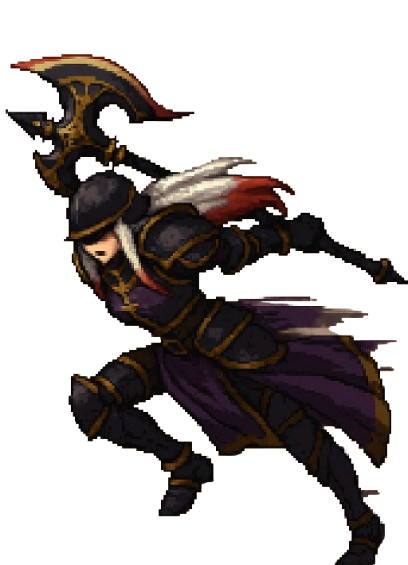
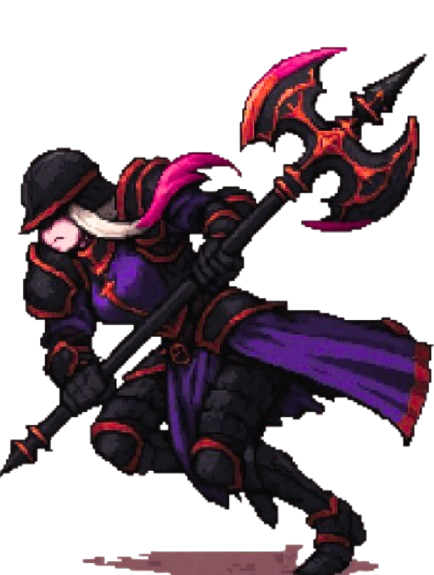
add nemora animacao
efeitos pos transformação e multiplas arts

diff --git a/js/mapaDois.js b/js/mapaDois.js
@@ -3134,6 +3134,26 @@ const normalModels = [
       zona: 5
     }
   ],
+  // [
+  //   {
+  //     name: "Nemora",
+  //     hp: 400,
+  //     maxHp: 400,
+  //     dano: 40,
+  //     behavior() {
+  //       return [
+  //         {
+  //           type: Math.random() < 0.75 ? "attack" : "attackVida",
+  //           value: this.dano
+  //         }
+  //       ];
+  //     },
+  //     img: "../img/jogo/inimigos/animado/statico/nemora1.png",
+  //     tipoDano: "(⚔❔🔱)⚜🎭💊",
+  //     tipoVida: "🧿",
+  //     zona: 1
+  //   }
+  // ]
 ];
 
 // ELITE
@@ -3697,19 +3717,19 @@ const bossModels = [
     }
   ],
   // 5555555555555555
-  [
-    {
-      name: "IA",
-      hp: 250,
-      maxHp: 250,
-      dano: 38,
-      behavior: () => [{ type: Math.random() < 0.75 ? "attack" : "attackVida", value: 38 }],
-      img: "../img/jogo/inimigos/bossIa.png",
-      tipoDano: "⚔❔🔱",
-      tipoVida: "🧿",
-      zona: 5
-    }
-  ],
+  // [
+  //   {
+  //     name: "IA",
+  //     hp: 250,
+  //     maxHp: 250,
+  //     dano: 38,
+  //     behavior: () => [{ type: Math.random() < 0.75 ? "attack" : "attackVida", value: 38 }],
+  //     img: "../img/jogo/inimigos/bossIa.png",
+  //     tipoDano: "⚔❔🔱",
+  //     tipoVida: "🧿",
+  //     zona: 5
+  //   }
+  // ],
   [
     {
       name: "Nemora",
@@ -3922,9 +3942,22 @@ function animateDamage(el) {
   const isNemora = img.src.includes("nemora");
   if (!isNemora) return;
   // frames
-  const frame1 = "../img/jogo/inimigos/animado/def/nemora1.png";
-  const frame2 = "../img/jogo/inimigos/animado/def/nemora2.png";
-  const idle = "../img/jogo/inimigos/animado/statico/nemora4.png";
+  if (nemoraDef==true) {
+    frame1 = "../img/jogo/inimigos/animado/def/nemora11.png";
+  frame2 = "../img/jogo/inimigos/animado/def/nemora22.png";
+  idle = "../img/jogo/inimigos/animado/statico/nemora444.png";
+  } else if (nemoraAtk==true) {
+    frame1 = "../img/jogo/inimigos/animado/def/nemora111.png";
+  frame2 = "../img/jogo/inimigos/animado/def/nemora222.png";
+  idle = "../img/jogo/inimigos/animado/statico/nemora444.png";
+  } else {
+    frame1 = "../img/jogo/inimigos/animado/def/nemora1.png";
+  frame2 = "../img/jogo/inimigos/animado/def/nemora2.png";
+  idle = "../img/jogo/inimigos/animado/statico/nemora444.png";
+  }
+  stopNemoraFire();
+  startNemoraSnow();
+  
   // velocidade da animação
   const speed = 220;
   // FRAME 1
@@ -3948,14 +3981,64 @@ function animateDamage(el) {
   }, speed);
   floatText(enemies[0].el, `Postura Defensiva`, "aqua");
   if (nemoraDef == true) {
-    enemies[0].hp += 5;
+    if (enemies[0].hp<100) {
+      enemies[0].hp += 20;
+    floatText(enemies[0].el, `+20💚`, "lime");
+
+    } else if (enemies[0].hp<200) {
+      enemies[0].hp += 15;
+    floatText(enemies[0].el, `+15💚`, "lime");
+
+    } else if (enemies[0].hp<300) {
+      enemies[0].hp += 10;
+    floatText(enemies[0].el, `+10💚`, "lime");
+
+    } else {
+      enemies[0].hp += 5;
     floatText(enemies[0].el, `+5💚`, "lime");
+    }
   }
   nemoraDef = true;
   nemoraAtk = false;
 }
 
+let nemoraSnowInterval = null;
 
+function startNemoraSnow() {
+  const container = document.getElementById("nemoraSnow");
+  if (!container) return;
+
+  container.style.display = "block";
+
+  if (nemoraSnowInterval) return;
+
+  nemoraSnowInterval = setInterval(() => {
+    const p = document.createElement("div");
+    p.classList.add("nemora-particle");
+
+    // agora cobre de 0% até 100% da tela
+    p.style.left = Math.random() * 100 + "vw";
+
+    // velocidade vertical permanece igual
+    p.style.animationDuration = (3 + Math.random() * 2) + "s";
+
+    container.appendChild(p);
+
+    setTimeout(() => p.remove(), 6000);
+  }, 30); // forte + preenchendo a tela inteira
+}
+
+function stopNemoraSnow() {
+  const container = document.getElementById("nemoraSnow");
+  if (!container) return;
+
+  container.style.display = "none";
+
+  clearInterval(nemoraSnowInterval);
+  nemoraSnowInterval = null;
+
+  container.innerHTML = "";
+}
 
 function drawCards() {
   const cards = document.getElementById("cards");
@@ -5786,14 +5869,37 @@ function animateNemoraAttack(enemy) {
     const img = enemy.el.querySelector("img");
 
     if (!img) return resolve();
-    const frames = {
+
+    if (nemoraAtk==true) {
+      frames = {
+      f1: "../img/jogo/inimigos/animado/atk/nemora11.png",
+      f2: "../img/jogo/inimigos/animado/atk/nemora33.png",
+      f3: "../img/jogo/inimigos/animado/atk/nemora22.png",
+      f4: "../img/jogo/inimigos/animado/atk/nemora44.png",
+      f5: "../img/jogo/inimigos/animado/atk/nemora55.png",
+      idle: "../img/jogo/inimigos/animado/statico/nemora222.png"
+    };
+    } else if (nemoraDef==true) {
+      frames = {
+      f1: "../img/jogo/inimigos/animado/atk/nemora111.png",
+      f2: "../img/jogo/inimigos/animado/atk/nemora333.png",
+      f3: "../img/jogo/inimigos/animado/atk/nemora222.png",
+      f4: "../img/jogo/inimigos/animado/atk/nemora444.png",
+      f5: "../img/jogo/inimigos/animado/atk/nemora55.png",
+      idle: "../img/jogo/inimigos/animado/statico/nemora222.png"
+    };
+    } else {
+      frames = {
       f1: "../img/jogo/inimigos/animado/atk/nemora1.png",
       f2: "../img/jogo/inimigos/animado/atk/nemora3.png",
       f3: "../img/jogo/inimigos/animado/atk/nemora2.png",
       f4: "../img/jogo/inimigos/animado/atk/nemora4.png",
-      f5: "../img/jogo/inimigos/animado/atk/nemora5.png",
-      idle: "../img/jogo/inimigos/animado/statico/nemora2.png"
+      f5: "../img/jogo/inimigos/animado/atk/nemora55.png",
+      idle: "../img/jogo/inimigos/animado/statico/nemora222.png"
     };
+    }
+    stopNemoraSnow();
+    startNemoraFire();
     const dashTime = 700; // tempo indo
     const backTime = 500; // tempo voltando
     const stopTime = 500; // tempo parado no frame 4
@@ -5831,6 +5937,45 @@ function animateNemoraAttack(enemy) {
     }, dashTime);
   });
 }
+
+let nemoraFireInterval = null;
+
+function startNemoraFire() {
+  const container = document.getElementById("nemoraFire");
+  if (!container) return;
+
+  container.style.display = "block";
+
+  if (nemoraFireInterval) return;
+
+  nemoraFireInterval = setInterval(() => {
+    const p = document.createElement("div");
+    p.classList.add("nemora-fire-particle");
+
+    // fogo aparece em qualquer lugar, igual nevasca
+    p.style.left = Math.random() * 100 + "vw";
+
+    // velocidade aleatória suave
+    p.style.animationDuration = (2 + Math.random() * 1.5) + "s";
+
+    container.appendChild(p);
+
+    setTimeout(() => p.remove(), 4000);
+  }, 25); // bem intenso, estilo chamas vivas
+}
+
+function stopNemoraFire() {
+  const container = document.getElementById("nemoraFire");
+  if (!container) return;
+
+  container.style.display = "none";
+
+  clearInterval(nemoraFireInterval);
+  nemoraFireInterval = null;
+
+  container.innerHTML = "";
+}
+
 
 async function enemyTurn() {
   await new Promise(res => setTimeout(res, 600));

diff --git a/css/nemora.css b/css/nemora.css
@@ -1,0 +1,70 @@
+#nemoraSnow {
+  pointer-events: none;
+  position: fixed;
+  top: 0;
+  left: 0;
+  width: 100vw;
+  height: 100vh;
+  overflow: hidden;
+  z-index: 999999;
+  display: none;
+}
+
+.nemora-particle {
+  position: absolute;
+  width: 3px;
+  height: 3px;
+  background: rgba(200, 255, 255, 0.9);
+  border-radius: 50%;
+  animation: nemoraFall linear forwards;
+}
+
+/* de cima até baixo, deslocando sempre para a esquerda */
+@keyframes nemoraFall {
+  0% {
+    transform: translateY(-10vh) translateX(10vw);
+    opacity: 1;
+  }
+  100% {
+    transform: translateY(110vh) translateX(-30vw);
+    opacity: 0;
+  }
+}
+
+#nemoraFire {
+  pointer-events: none;
+  position: fixed;
+  top: 0;
+  left: 0;
+  width: 100vw;
+  height: 100vh;
+  overflow: hidden;
+  z-index: 999999;
+  display: none;
+}
+
+.nemora-fire-particle {
+  position: absolute;
+  width: 5px;
+  height: 5px;
+  background: radial-gradient(circle, #ffec8a, #ff7b00, #ff0000);
+  border-radius: 50%;
+  opacity: 0.8;
+  animation: nemoraFireRise linear forwards;
+  filter: blur(1px);
+}
+
+@keyframes nemoraFireRise {
+  0% {
+    transform: translateY(100vh) scale(0.8);
+    opacity: 1;
+  }
+  50% {
+    transform: translateY(50vh) scale(1.2);
+    opacity: 0.9;
+  }
+  100% {
+    transform: translateY(-10vh) scale(0.4);
+    opacity: 0;
+  }
+}

diff --git a/pages/selecaoMapa.html b/pages/selecaoMapa.html
@@ -9,10 +9,13 @@
   <script src="https://cdn.jsdelivr.net/npm/bootstrap@5.3.0/dist/js/bootstrap.bundle.min.js"></script>
   <link rel="stylesheet" href="./../css/reset.css" />
   <link rel="stylesheet" href="./../css/mapa.css" />
+  <link rel="stylesheet" href="./../css/nemora.css" />
   <script src="./../js/mapaDois.js" defer></script>
   <link rel="stylesheet" href="./../css/batalha.css">
   <!-- <script src="./../js/batalha.js" defer></script> -->
 </head>
+<div id="nemoraSnow"></div>
+<div id="nemoraFire"></div>
 
 <body>
   <div id="game">
